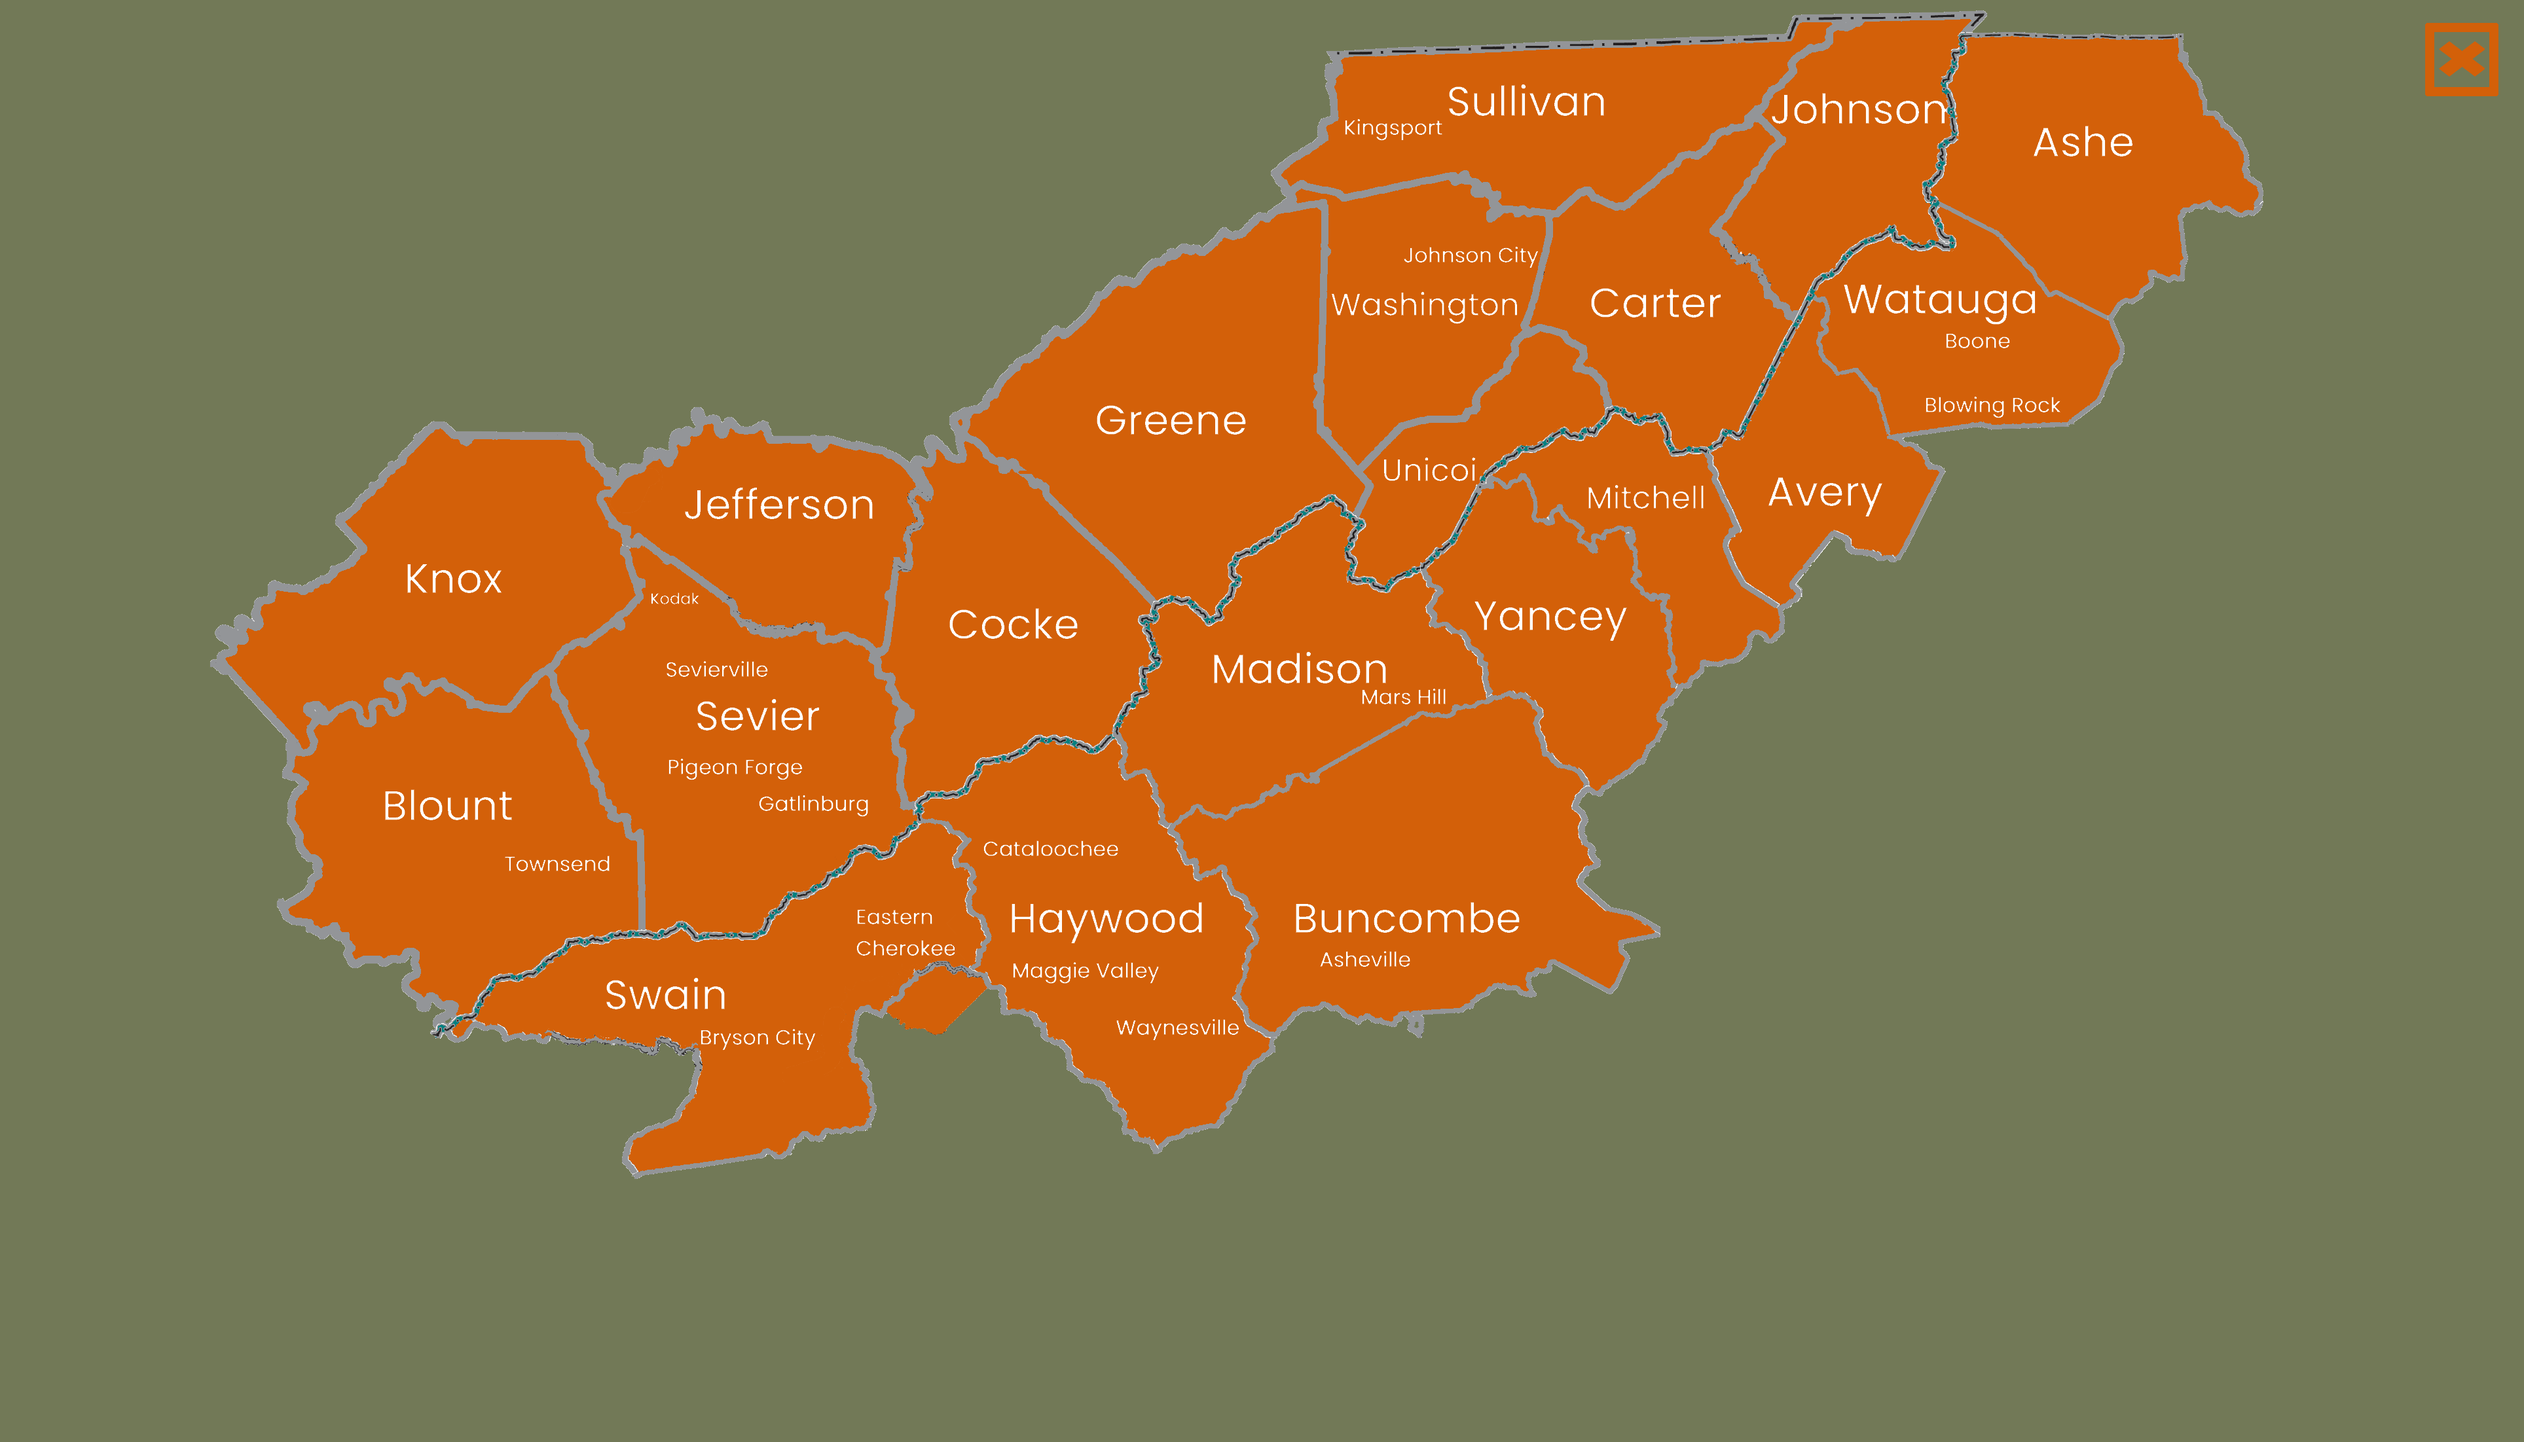
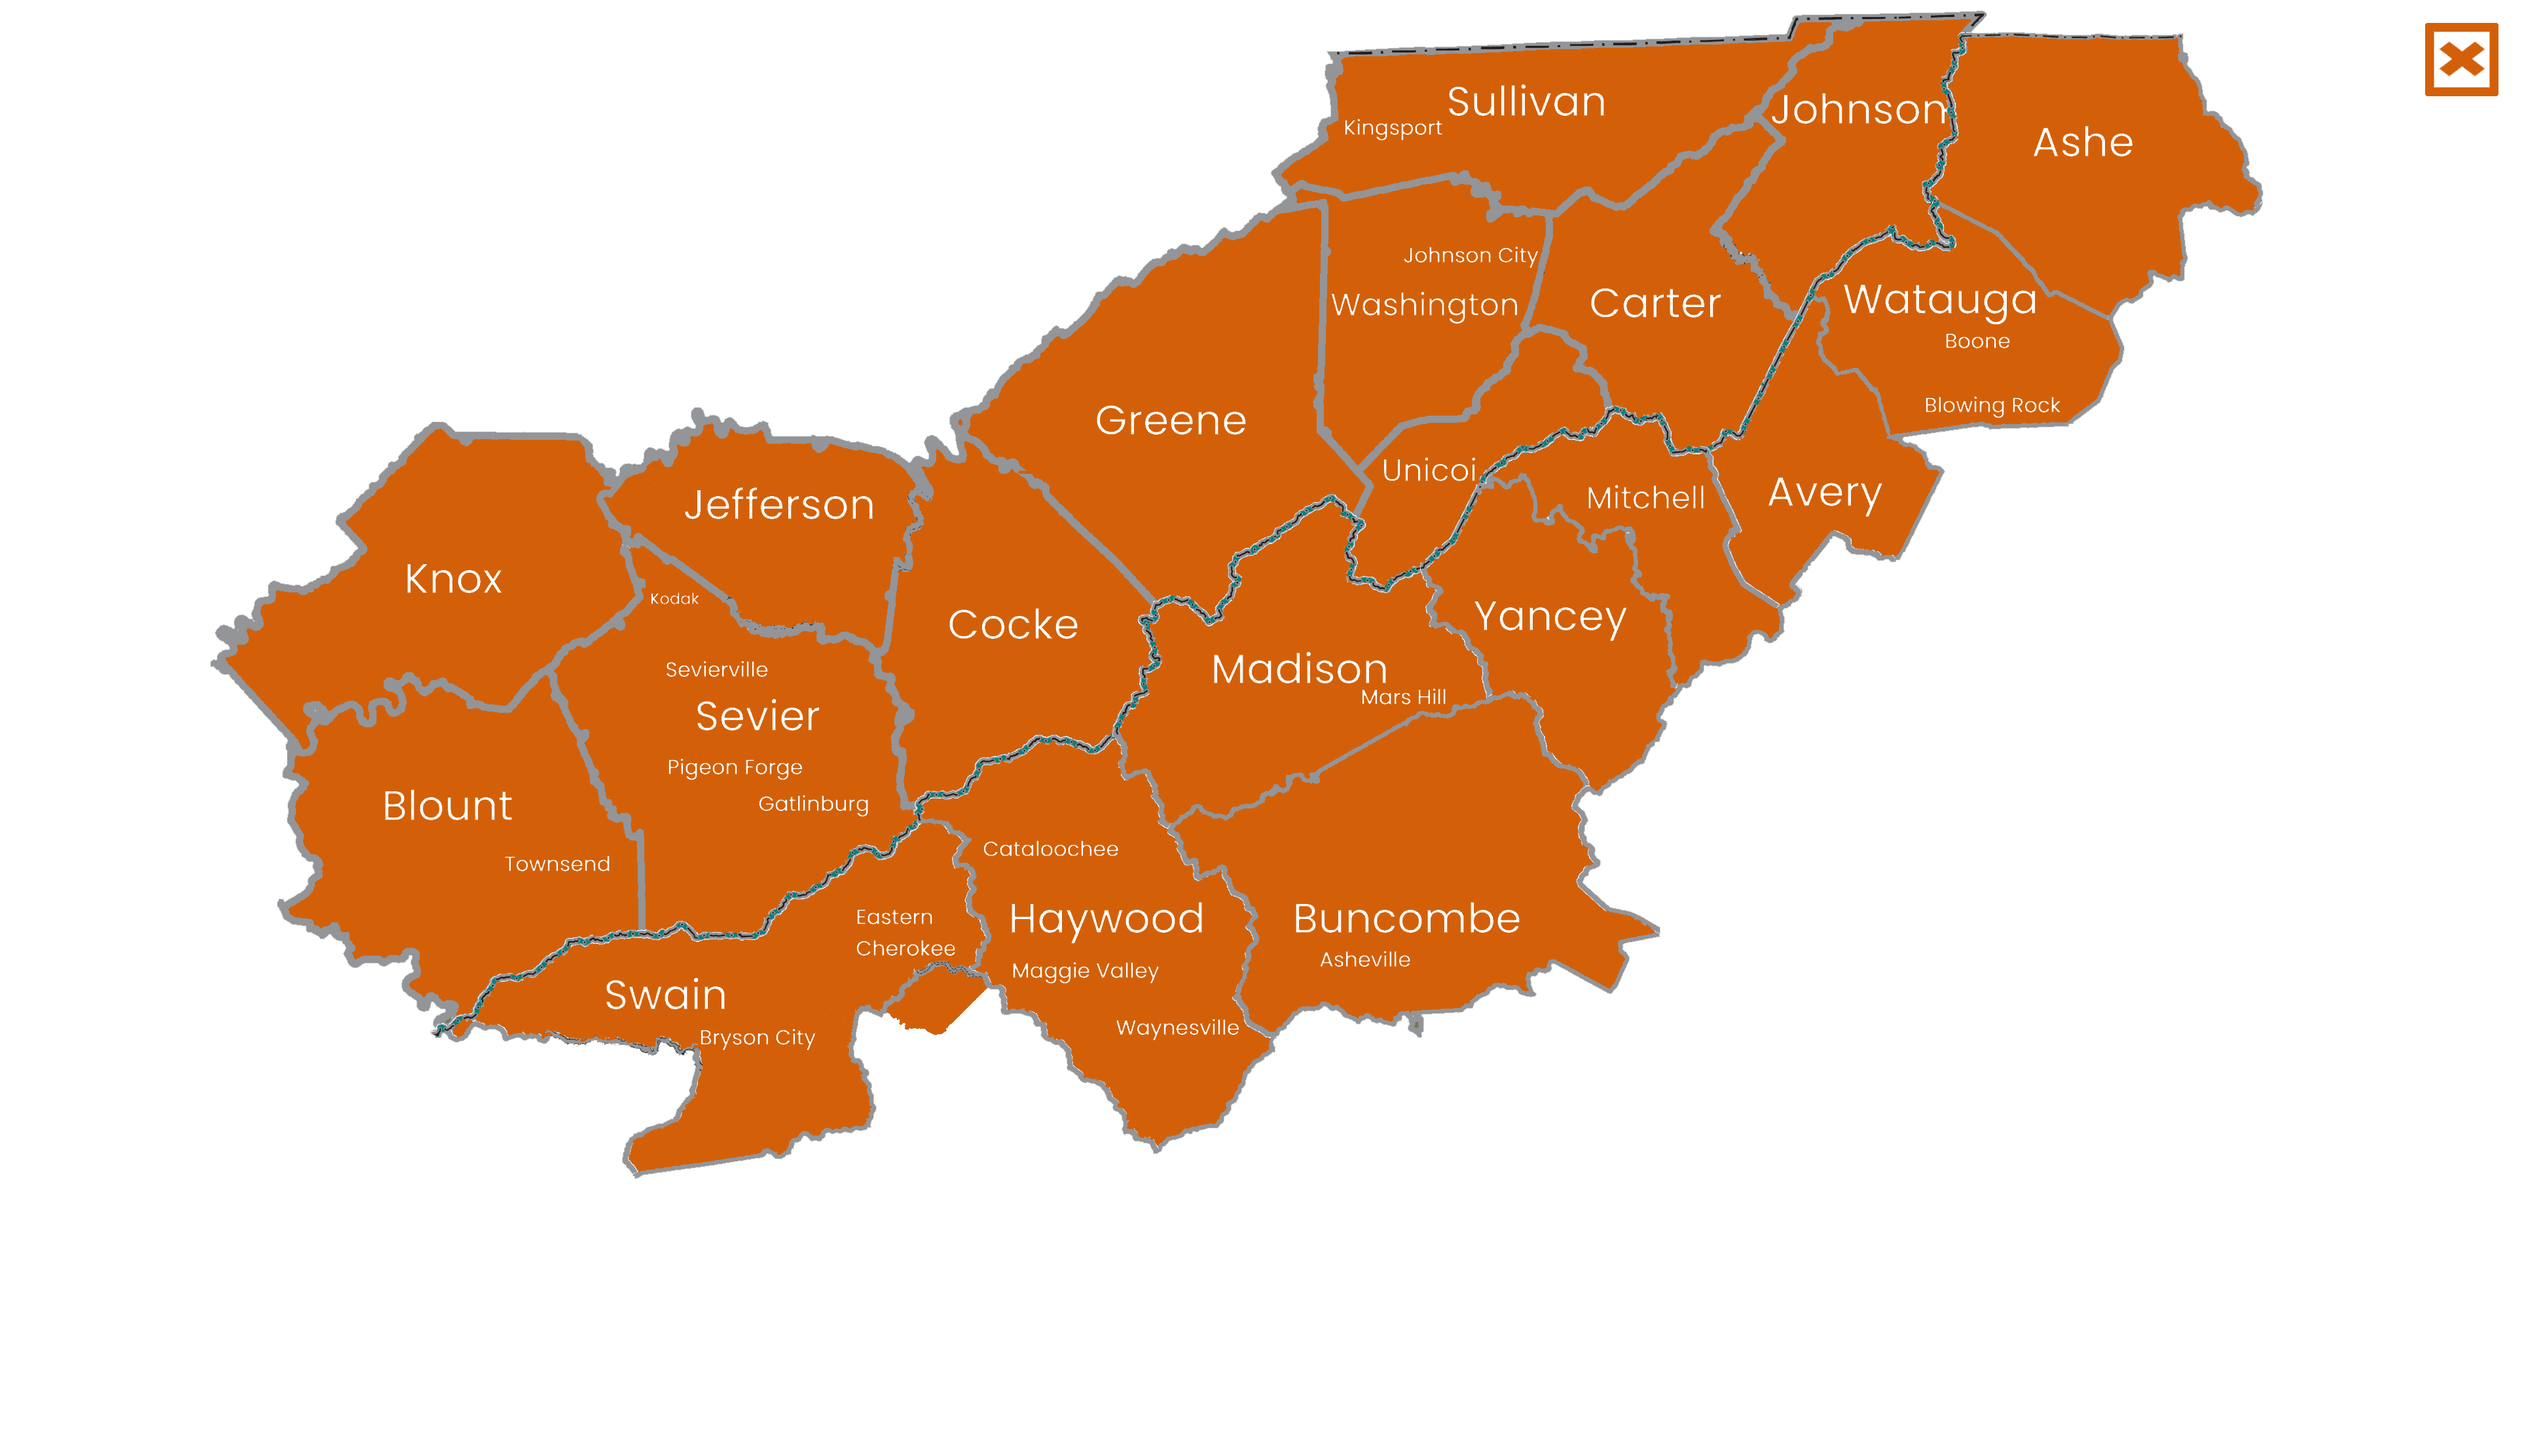
qoutes slide show and map update

diff --git a/static/css/menufullpage.css b/static/css/menufullpage.css
@@ -21,7 +21,7 @@
 
 #menu1{
   right: -100%;
-  background: #6f7c56;
+  background: rgba(111, 124, 86, 0.6);
   z-index: 998;
 
 }
